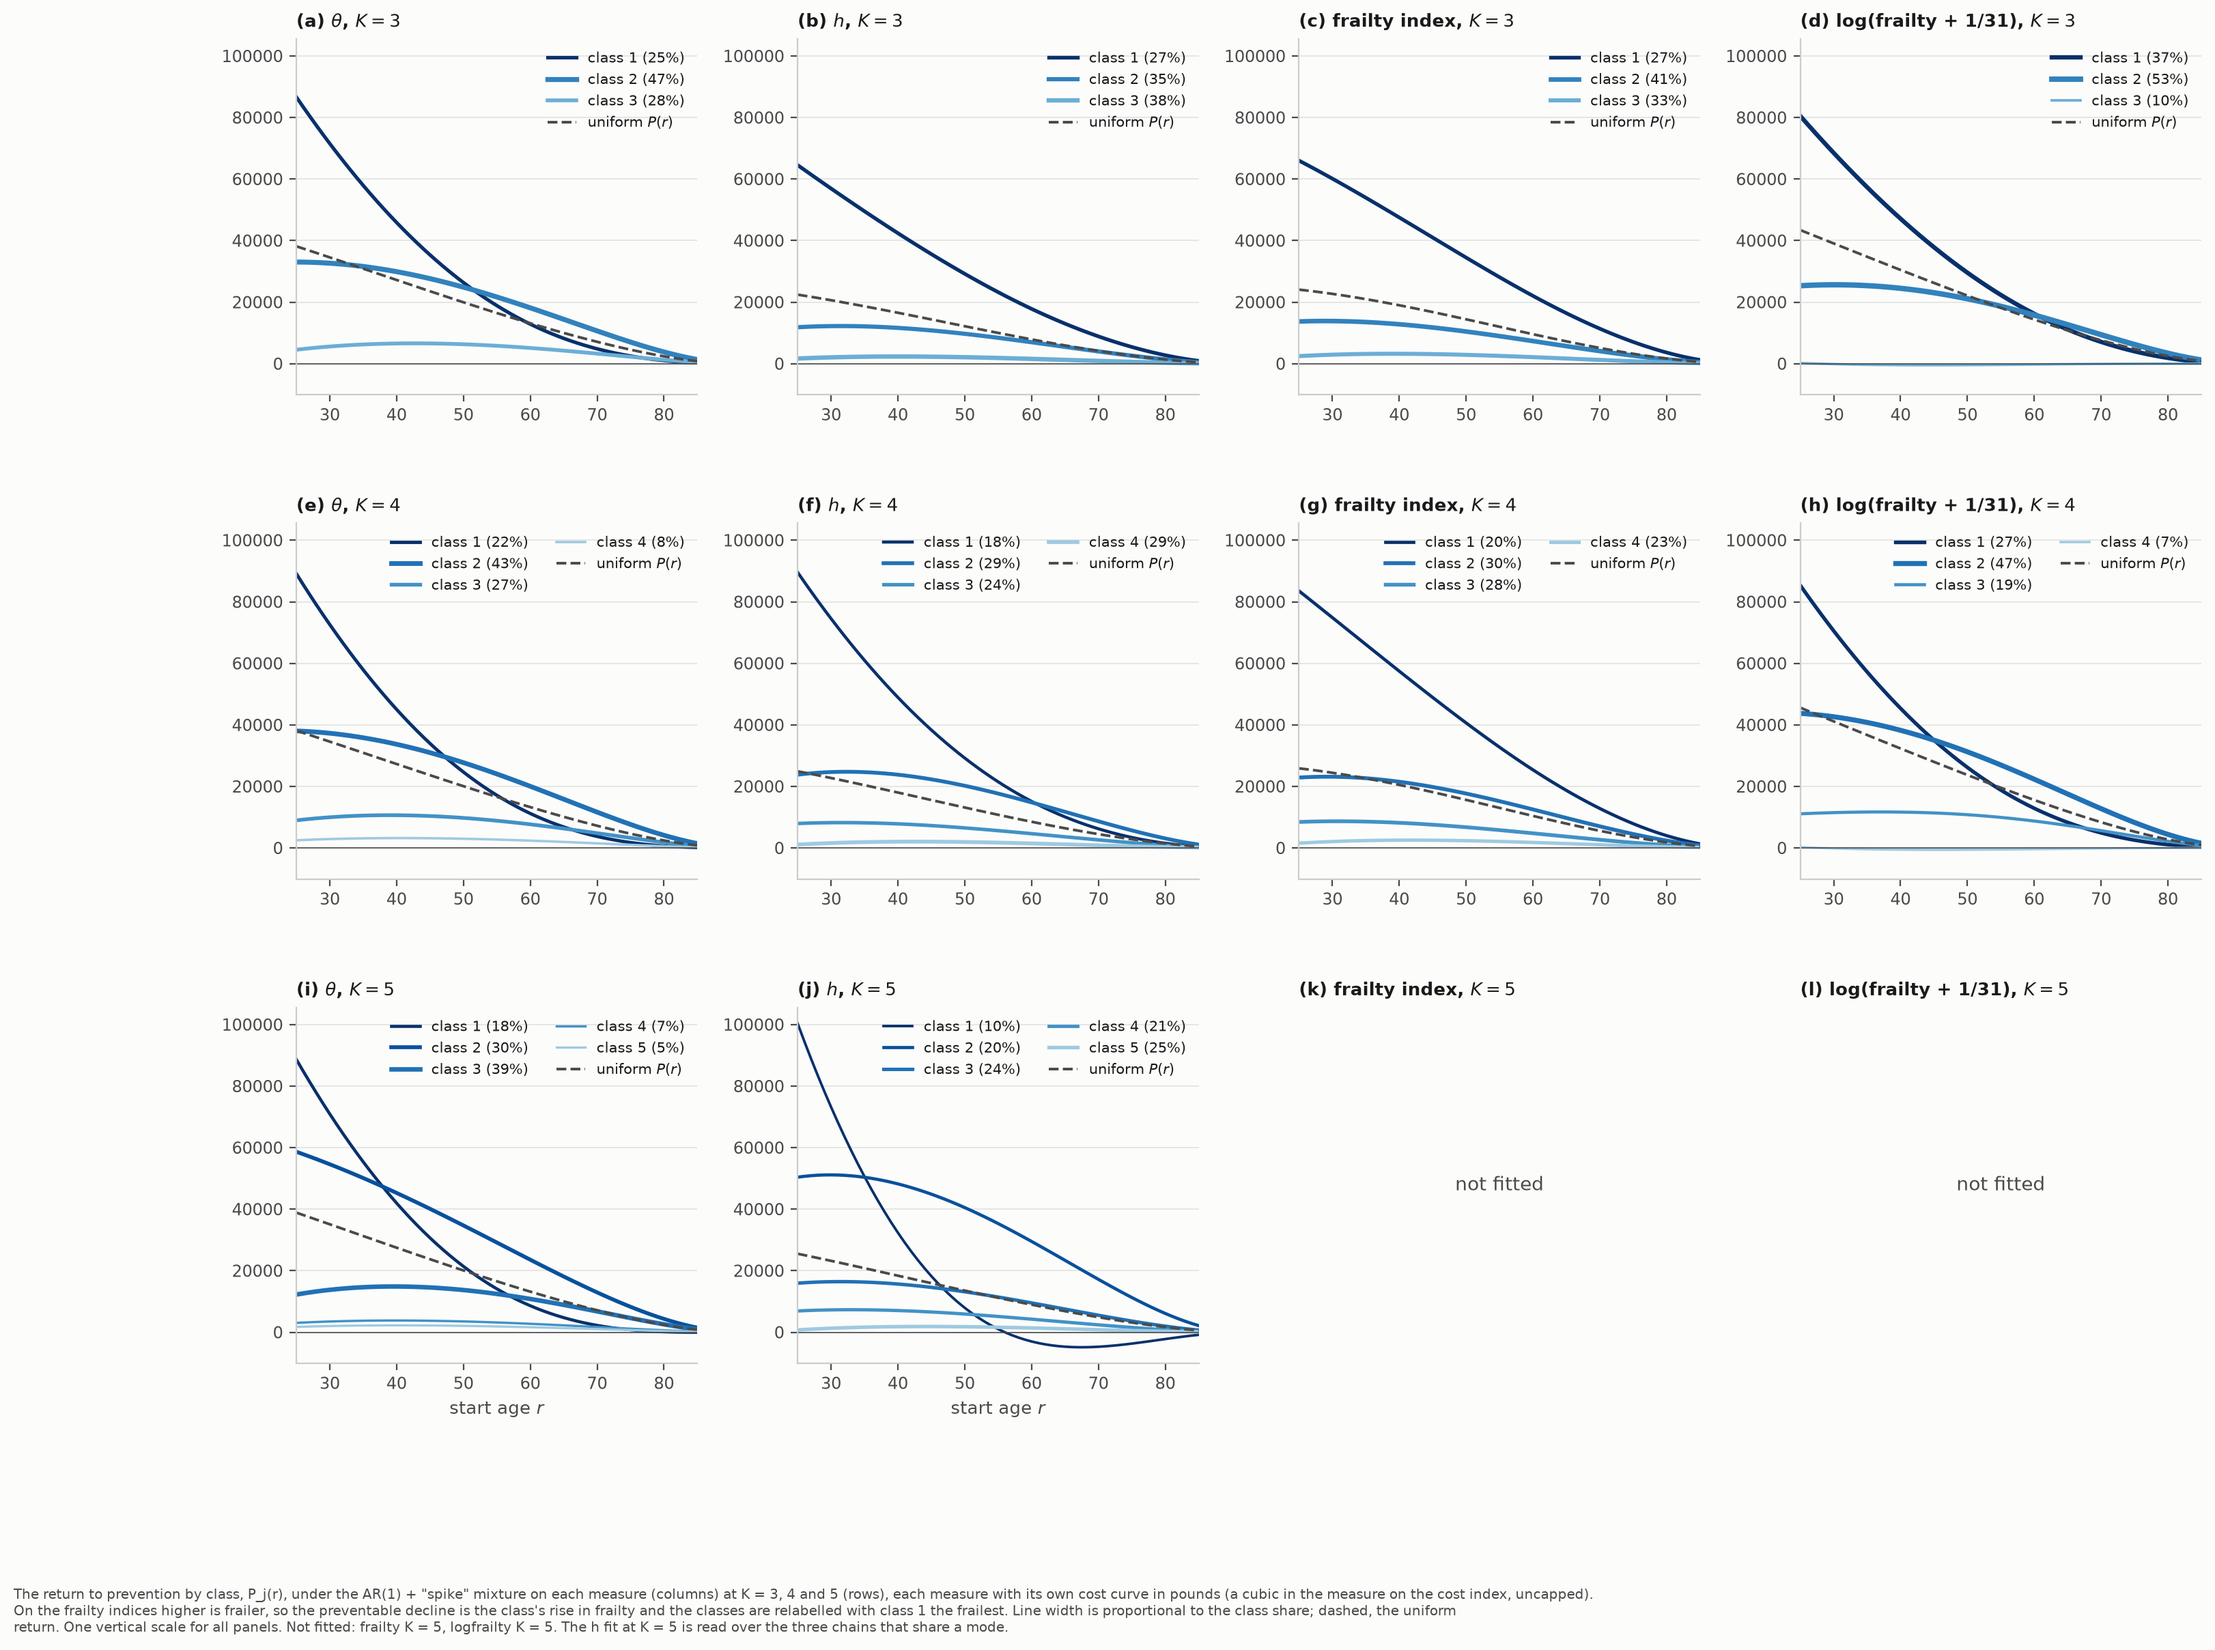
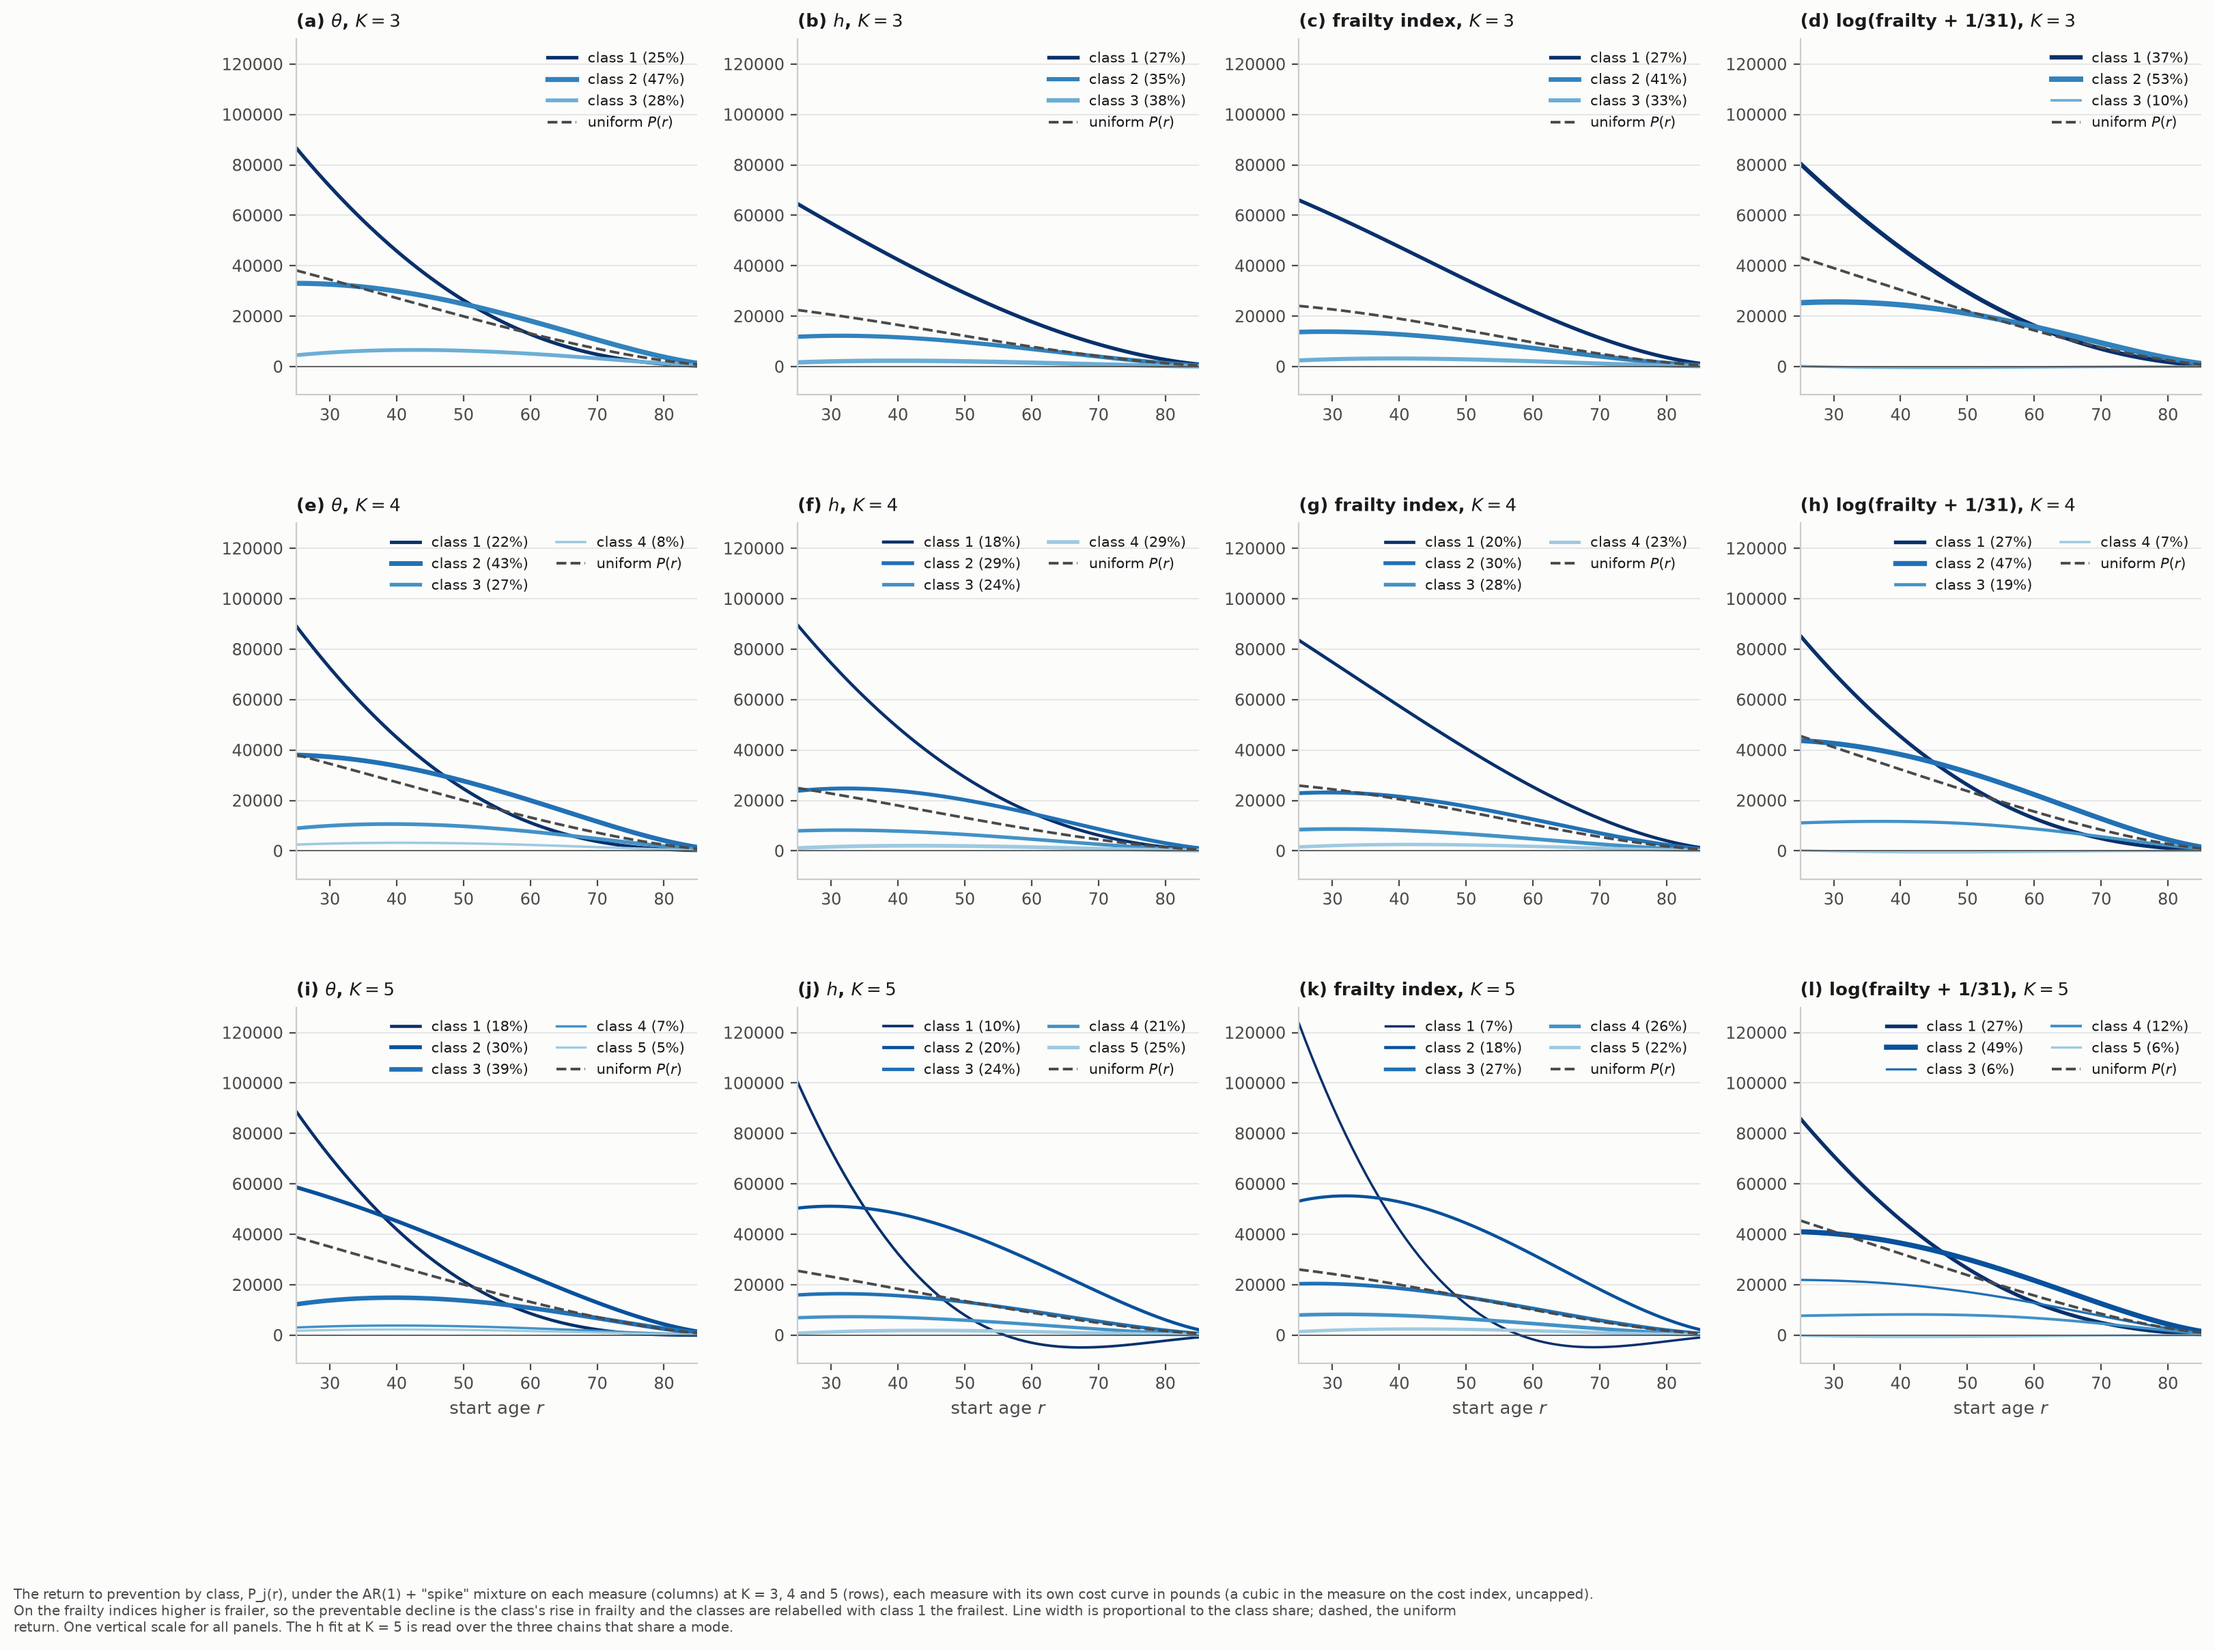
K=5 frailty fits read at their best mode; cohort first-two-rows launcher
health-frailty-ssm-k5 over chain 1, health-logfrailty-ssm-k5 over chain 4 (MODE_CHAINS);
fig_frailty_by_K and fig_returns_by_measure rerun.

Claude-Session: https://claude.ai/code/session_01X1eFnzWAvA5Cu7Ljyocxn7

diff --git a/descriptives/_paper_common.py b/descriptives/_paper_common.py
@@ -114,7 +114,9 @@ def load_labels(variant: str, lo: int = MIN_AGE, hi: int = MAX_AGE) -> pd.Series
 # posterior mean and R-hat are then over that subset): health-h-ssm-k5, chains 1, 2, 4 agree to
 # three decimals and chain 3 sits about 310 log-posterior units lower; health-frailty-ssm-k4,
 # chains 1-3 agree and chain 4 sits about 950 lower.
-MODE_CHAINS = {"health-h-ssm-k5": [1, 2, 4], "health-frailty-ssm-k4": [1, 2, 3]}
+MODE_CHAINS = {"health-h-ssm-k5": [1, 2, 4], "health-frailty-ssm-k4": [1, 2, 3],
+               "health-frailty-ssm-k5": [1],      # four chains, three modes; chain 1 is 530 higher in lp
+               "health-logfrailty-ssm-k5": [4]}   # four chains, three modes; chain 4 is 30 higher in lp than 1, 2
 
 
 def ssm_fit(v: str, Kc: int = K) -> dict:
